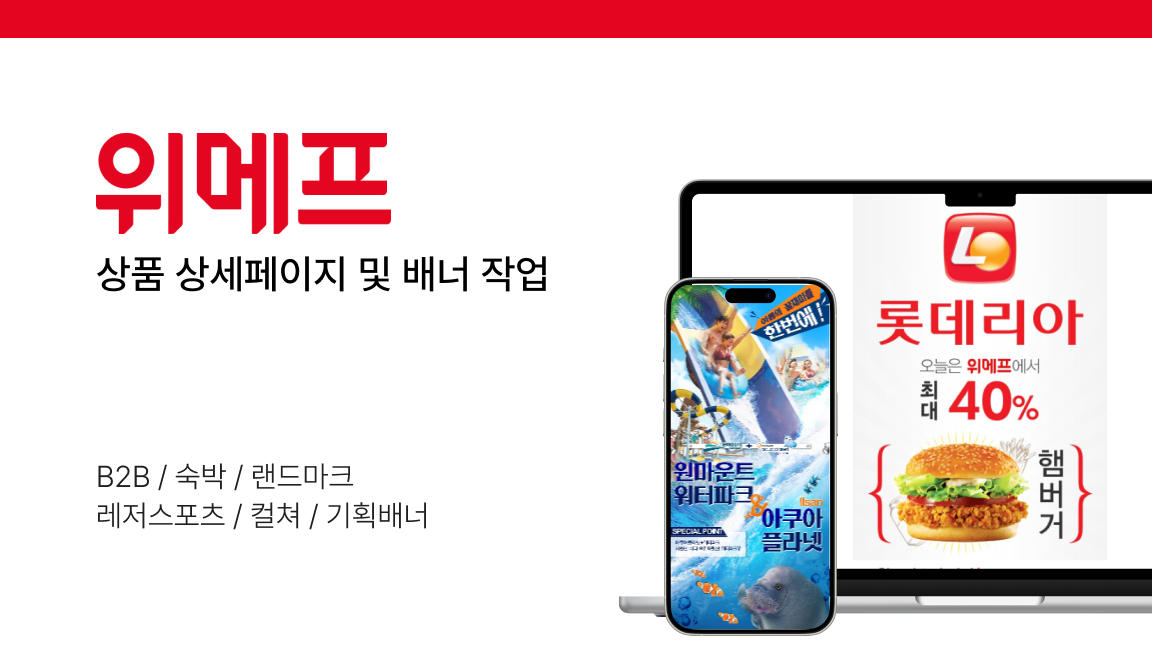
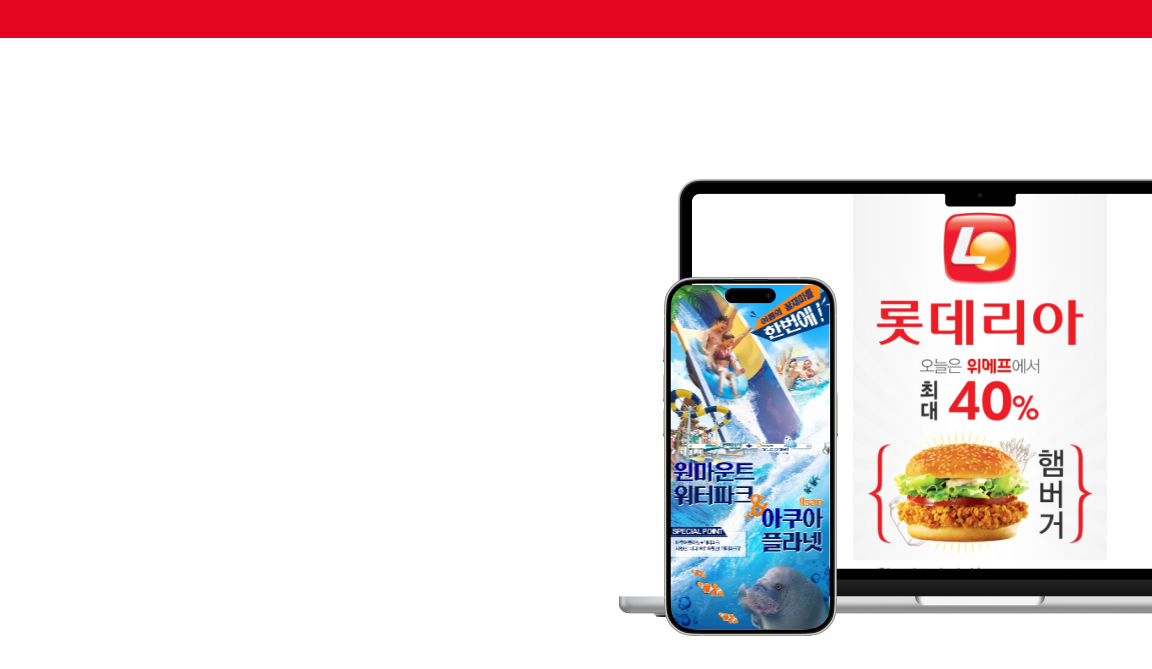
Initial commit

Changed region(s): [[0.0625, 0.1794, 0.3438, 0.3587], [0.0625, 0.6876, 0.375, 0.8072], [0.0625, 0.3886, 0.5, 0.4484]]

diff --git a/css/style.css b/css/style.css
@@ -10,7 +10,7 @@
   /* 서브 텍스트 - 중간 밝은 색 */
   --bg: #bb7642;
   /* 메인 배경 - 어두운 색 */
-  --card: #59574F;
+  --card: #916240;
   /* 카드 배경 - 중간 색 */
   --round: 18px;
 
@@ -19,12 +19,12 @@
   --border: rgba(151, 166, 162, 0.2);
 
   /* 액센트 & 포인트 컬러 */
-  --accent: #107243;
+  --accent: #bb7642;
   /* 메인 액센트 - 가장 어두운 색 */
-  --accent1: #107243;
-  --accent2: #107243;
+  --accent1: #bb7642;
+  --accent2: #bb7642;
   --primary-color: #ba9478;
-  --primary-color-full: #107243;
+  --primary-color-full: #bb7642;
 
   /* 포인트 컬러 - 기존 컬러 팔레트 내에서 변형 */
   --accent3: #231e20;
@@ -32,17 +32,17 @@
   --point-color1: #231e20;
   --point-color2: #E9EDF2;
   --point-color3: #59574F;
-  --point-color4: #107243;
+  --point-color4: #bb7642;
 
   /* 배경 그라데이션용 컬러 */
-  --bg-Cdeep-color1: #107243;
+  --bg-Cdeep-color1: #bb7642;
   --bg-Cdeep-color2: #59574F;
   --bg-Cdeep-color3: #231e20;
   --bg-Cdeep-color4: #E9EDF2;
 
   /* 메인 & 서브 컬러 */
   --main-color: #59574F;
-  --main-color-deep: #107243;
+  --main-color-deep: #bb7642;
   --sub-color1: #231e20;
   --sub-color2: #E9EDF2;
 
@@ -301,7 +301,7 @@ h2 {
   display: flex;
   justify-content: space-between;
   align-items: center;
-  background: #f6e9d9;
+  background: #f2ede7;
   position: relative;
   flex-direction: column;
   padding-block: 10vh;
@@ -342,7 +342,7 @@ h2 {
 }
 
 .marquee_item {
-  color: #c4bebe;
+  color: #fff;
   opacity: .9;
   font-weight: 200;
 }
@@ -510,7 +510,7 @@ h2 {
 }
 
 .info_section .card {
-  background: #fff;
+  background: #eee;
   border-radius: 24px;
   padding: 48px 40px;
   box-shadow: 0 8px 32px rgba(0, 0, 0, 0.12);
@@ -570,7 +570,7 @@ h2 {
 }
 
 .info_section .card h4 {
-  color: #107243;
+  color: #000;
   font-size: 1.75rem;
   font-weight: 700;
   margin: 0;
@@ -603,18 +603,18 @@ h2 {
   display: inline-flex;
   align-items: center;
   padding: 16px 32px;
-  background: rgba(64, 31, 13, 0.1);
-  color: #107243;
+  background: #e8d3c4;
+  color: var(--bg);
   text-decoration: none;
   border-radius: 28px;
   font-size: 1.05rem;
   font-weight: 500;
   transition: all 0.3s ease;
-  border: 1px solid rgba(64, 31, 13, 0.2);
+  border: 1px solid #d0b29d;
 }
 
 .info_section .link-go a:hover {
-  background: #107243;
+  background: #916240;
   color: #E9EDF2;
   transform: translateY(-2px);
   box-shadow: 0 4px 12px rgba(64, 31, 13, 0.3);
@@ -815,7 +815,7 @@ h2 {
   position: relative;
   height: 100vh;
   overflow: hidden;
-  background: #eee;
+  background: #f2ede7;
 }
 
 .track {
@@ -846,17 +846,23 @@ h2 {
   padding: 100px 50px;
 }
 
-.h_item .tit {}
 
-.h_item .tit h2 {
-  font-size: 40px;
+.h_item .tit h2{
+  font-size: 25px;
 }
 
-.h_item .tit p {}
+.h_item .tit h2 img {
+  max-width: 100px;
+  height: auto;
+}
+.h_item .tit-we h2 img {
+  max-width: 60px;
+}
 
-.h_item .txt {}
-
-.h_item .txt p {}
+.h_item .tit p {
+  font-size: 40px;
+  font-weight: 600;
+}
 
 .h_item::before {
   content: '';
@@ -925,7 +931,7 @@ h2 {
 /* ===== Stats (counters) ===== */
 .stats_section {
   text-align: center;
-  background: #107243;
+  background: #bb7642;
 }
 
 .stats_grid {
@@ -936,7 +942,7 @@ h2 {
 }
 
 .stat_box {
-  background: #3E3C36;
+  background: #916240;
   border-radius: var(--round);
   padding: 24px;
   outline: 1px solid rgba(255, 255, 255, .06);
@@ -952,7 +958,7 @@ h2 {
 /* ===== CTA ===== */
 .cta_section {
   text-align: center;
-  background: #107243;
+  background: #bb7642;
 }
 
 .cta_section h2 {
@@ -972,7 +978,7 @@ h2 {
   padding: 14px 20px;
   border-radius: 999px;
   background: #fff;
-  color: #107243;
+  color: #bb7642;
   font-weight: 800;
   transform: translateY(20px);
   opacity: 0

diff --git a/index.html b/index.html
@@ -185,22 +185,57 @@
             <a href="https://nickel-distance-e89.notion.site/20a31199c4e980529beccadb6f6d9f51?pvs=143" class="h_item"
                 target="_blank">
                 <div class="tit">
-                    <h2>aaa</h2>
+                    <h2><img src="./asset/track_01.avif" alt="프레시지"></h2>
                     <p>상품 상세페이지 및 배너 작업</p>
                 </div>
                 <div class="txt">
                     <p>자사몰 : 신규 상세페이지</p>
-                    <p>자사몰 : 신규 상세페이지</p>
+                    <p>자사몰 : 기획전</p>
+                    <p>자/타사몰 : 인트로</p>
                 </div>
             </a>
             <a href="https://nickel-distance-e89.notion.site/ed4c90b6cf1c48c7936d88259c24ffd9?pvs=143" class="h_item"
-                target="_blank"></a>
+                target="_blank">
+                <div class="tit-we tit">
+                    <h2><img src="./asset/track_02.svg" alt="위메프"></h2>
+                    <p>상품 상세페이지 및 배너 작업</p>
+                </div>
+                <div class="txt">
+                    <p>B2B / 숙박 / 랜드마크</p>
+                    <p>레저스포츠 / 컬쳐 / 기획배너</p>
+                </div>
+            </a>
             <a href="https://nickel-distance-e89.notion.site/fc5537a3f0674ab8a5b6550e2df51ed5?pvs=143" class="h_item"
-                target="_blank"></a>
+                target="_blank">
+                <div class="tit">
+                    <h2>헤윰피앤디</h2>
+                    <p>상품 상세페이지 및 배너 작업</p>
+                </div>
+                <div class="txt">
+                    <p>배너&상사페이지</p>
+                    <p>전단 / 대문접지 / 카다로그</p>
+                </div>
+            </a>
             <a href="https://nickel-distance-e89.notion.site/bcad498a26e140169e0d6874253a8c24?pvs=143" class="h_item"
-                target="_blank"></a>
+                target="_blank">
+                <div class="tit">
+                    <h2>스팟라이틀리</h2>
+                    <p>상품 상세페이지 및 배너 작업</p>
+                </div>
+                <div class="txt">
+                    <p></p>
+                </div>
+            </a>
             <a href="https://nickel-distance-e89.notion.site/baf4d05d4b5e41c7b2813f97e325ceff?pvs=143" class="h_item"
-                target="_blank"></a>
+                target="_blank">
+                <div class="tit">
+                    <h2>개인 의뢰</h2>
+                    <p>상품 상세페이지 및 배너 작업</p>
+                </div>
+                <div class="txt">
+                    <p></p>
+                </div>
+            </a>
         </div>
     </section>
 
